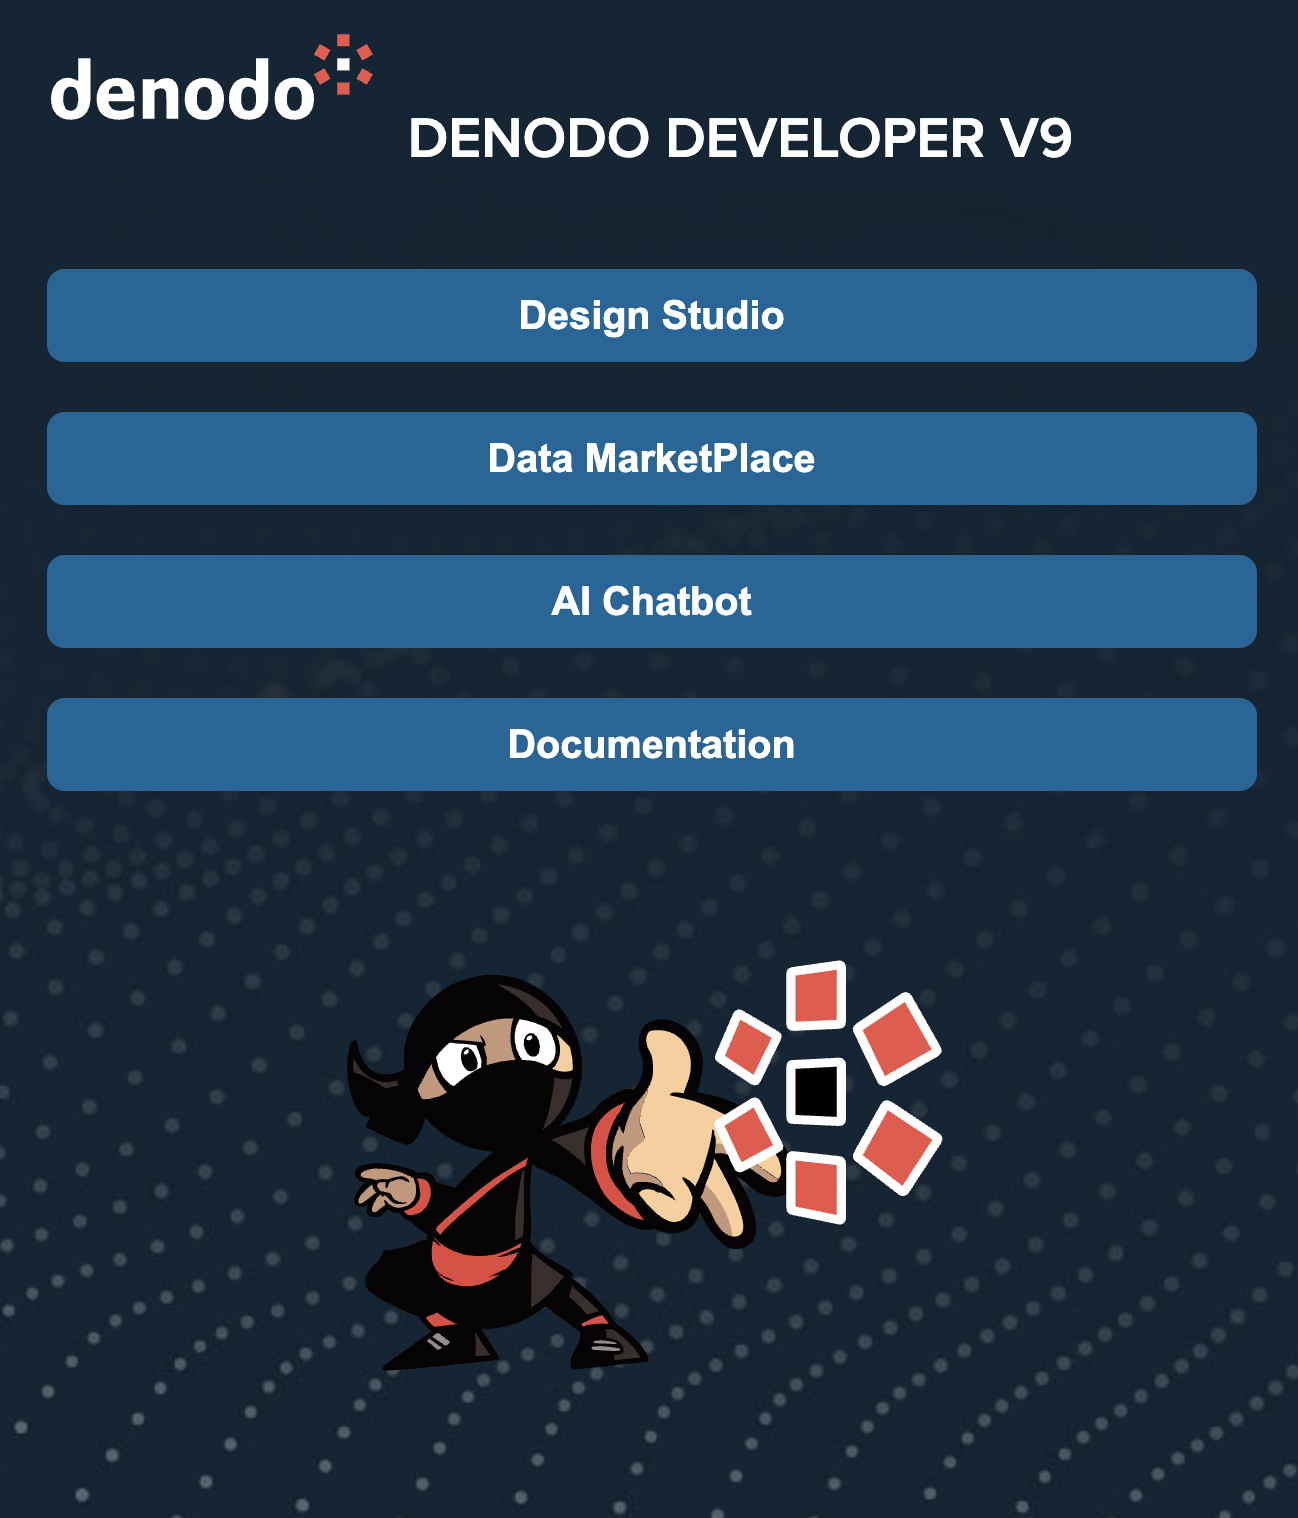
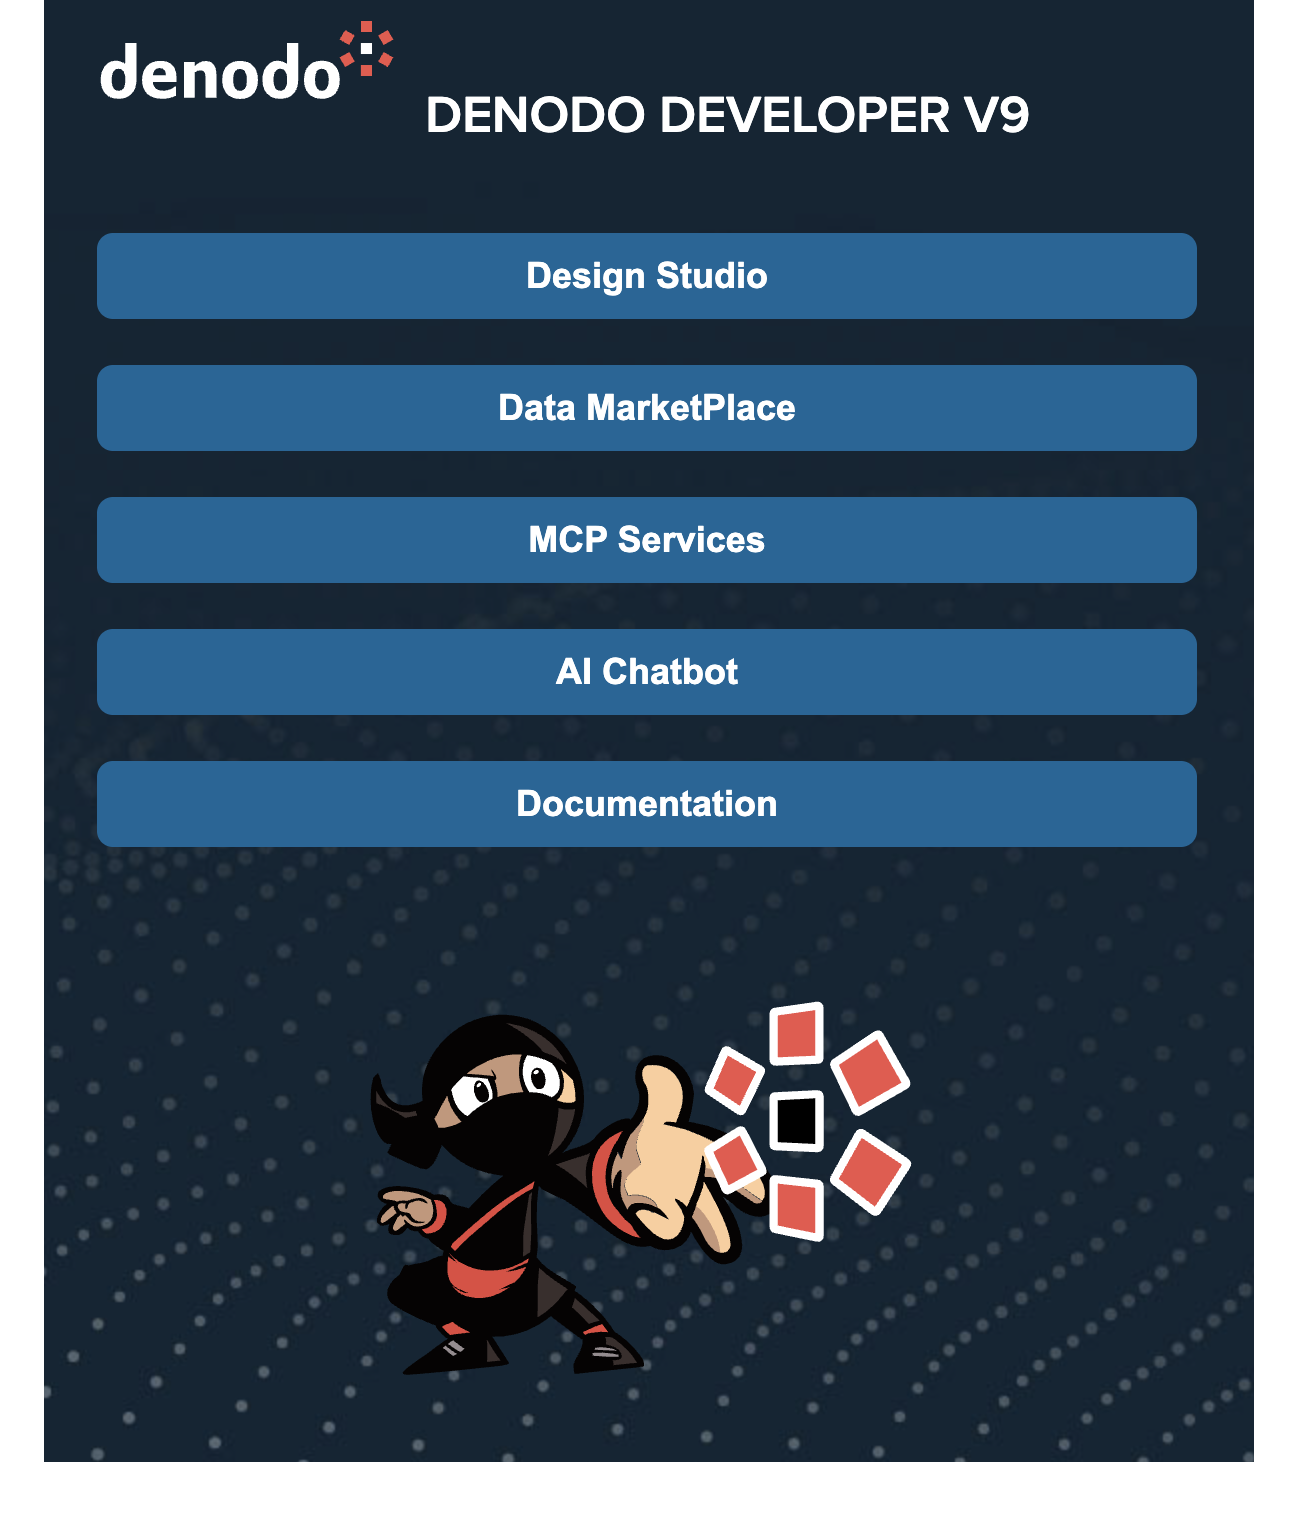
samples

diff --git a/README.md b/README.md
@@ -1,38 +1,54 @@
 # denodo-oneclick
-Denodo developer one click install for Docker on Windows and Linux.
+Denodo Platform Developer Edition One-Click install for Docker on Windows and Linux.
 
-This package automatically deploys the following Denodo components:
+This package provide a fully automated deployment and install of the following Denodo Platform components:
 * Denodo Virtual Data Port
 * Design Studio
 * Data Marketplace
 * AI-SDK API and Chatbot
 * AI-SDK MCP Server
 * Denodo VDP MCP Server
+* Sample Logical Models
+  * Retail Bank  
+  * Medical Pharma & X-Ray
 * Other components:
   * PostgreSQL DB
   * Nginx HTTP Server
   
-Following a successful deployment you have access to a landing webpage with link to all the install components.
+Following a successful deployment you will get access to a landing webpage with link to all the install components.
+
 
 ![landing page](./landing.png)
 
 
 
-## Usage
+## Getting Started
 
-To install Denodo Developper you just need to follow those steaps
-* Regirster with Denodo Support
+### Preparation
+
+To install Denodo Platform Developper Edition you just need to follow those steaps
+* Regirster with [Denodo](https://auth.denodo.com/user-management/denodo-platform-developer-tier-previous-register)
 * Obtain your Denodo Support Client ID
 * Obtain your Denodo Support Secret
-* Download your Denodo License
-
-You can then run the following command to install your own local container image of Denodo Developper by running the following command (change the parameters first)
+* Download your Free Denodo Developper License
 
 > **_NOTE:_**  You must have Docker priorly installed on your machine
 
-> **_NOTE:_** Give Docker at least 6 GB of memory (8 GB recommended). VDP Server, Design Studio, Data Marketplace, and the MCP server all run as separate concurrent Java processes, and running them under too little memory causes them to crash shortly after starting (often showing as a 502 from nginx) rather than a clean out-of-memory error. This is especially easy to hit with [Colima](https://github.com/abiosoft/colima), whose default profile only allocates 2 GB - increase it with `colima stop && colima start --memory 8 --cpu 4`, or by setting `memory: 8` in `~/.colima/default/colima.yaml`. On Docker Desktop, adjust it under Settings → Resources → Memory.
+> **_NOTE:_** Give **Docker** at least **6 GB** of memory (8 GB recommended). 
+> VDP Server, Design Studio, Data Marketplace, AISDK Sample Chatbot and the MCP servers all run as separate concurrent Java processes. Running them under too little memory would causes them to crash shortly after starting (often showing as a 502 from nginx) rather than a clean out-of-memory error. 
+
+> This is especially easy to hit if you are using [**Colima**](https://github.com/abiosoft/colima), lightweight container runtime tool for macOS and Linux, whose default profile only allocates only 2 GB.
+
+* Increase it with `colima stop && colima start --memory 8 --cpu 4`, or by setting `memory: 8` in `~/.colima/default/colima.yaml`. 
+* On Docker Desktop, adjust it under Settings → Resources → Memory.
+
+ You arenow nearly done have can then run the following command to install your own local container image of Denodo Developper by running the following command (change the parameters first)
+
+
 
 ### Linux / MacOS
+
+> **_NOTE:_** Before to run the script rebiew the additional optional parameters that are avaialbale. You might want to provide your **OPENAI_API_KEY** to enable the AISDK. The script will run for about 30 minutes depending on your hardware and internet speed. 
 
 ```zsh
 curl -fsSL https://raw.githubusercontent.com/vfagesgo/denodo-oneclick/main/install.sh | bash  -s -- \
@@ -52,17 +68,21 @@ If you already have this repository checked out locally, you can run the script 
 
 ### Windows
 
-On Windows, use `install.ps1` from a PowerShell prompt. Docker Desktop's Linux container backend builds/runs the exact same image as the bash version.
+On Windows, use `install.ps1` from a PowerShell prompt. Docker Desktop's Linux container backend builds/runs the exact same image as the Linux / MacOS version.
 
-> **_NOTE:_** Start Docker Desktop before running the script — it calls `docker` directly and fails immediately if the Docker engine isn't running.
+> **_NOTE:_** Start **Docker** Desktop before running the script as it calls `docker` directly and would fail immediately if the Docker engine isn't running.
 
-PowerShell doesn't support piping a script straight into execution the way `curl | bash` does, so download it first, then run it. PowerShell also blocks running downloaded `.ps1` scripts by default, so bypass that for the current session with `Set-ExecutionPolicy`:
+> **_NOTE:_** **PowerShell** doesn't support piping a script straight into execution the way `curl | bash` does, so download it first, then run it. PowerShell also blocks running downloaded `.ps1` scripts by default, so bypass that for the current session with `Set-ExecutionPolicy`:
 
 ```powershell
 Set-ExecutionPolicy -Scope Process -ExecutionPolicy Bypass
+```
 
+```powershell
 iwr -useb https://raw.githubusercontent.com/vfagesgo/denodo-oneclick/main/install.ps1 -OutFile install.ps1
+```
 
+```powershell
 .\install.ps1 -DENODO_SUPPORT_CI <Support_CI> -DENODO_SUPPORT_SECRET <Support_Secret> -DENODO_LIC <Path to your Denodo license file>
 ```
 
@@ -70,9 +90,11 @@ iwr -useb https://raw.githubusercontent.com/vfagesgo/denodo-oneclick/main/instal
 
 If you already have this repository checked out locally, run `.\install.ps1 ...` directly instead (still preceded by the `Set-ExecutionPolicy` line above if needed).
 
-### Next Steps 
+### Final Step 
 
-The install runs in the background; the script automatically follows its logs in your terminal until you Ctrl-C (the container keeps running either way). Once it completes, Denodo is available at http://localhost. To reattach to the logs later:
+The install runs in the background. The script automatically follows its logs in your terminal until you Ctrl-C (the container keeps running either way).
+
+Once it completes, you will wait for about 30 min for the initial install, Denodo is available at http://localhost.
 
 ## Options
 
@@ -89,10 +111,17 @@ Defaults come from `denodo_config.env`; pass any of these to override them:
 - `--DENODO_VDP_PWD <value>` (default: `admin`)
 
 ### Optional (CLI only)
-- `--CLOUDFLARE_TUNNEL_KEY <value>` — optional Cloudflare Tunnel token, if you want to expose the instance publicly. Each Cloudflare Tunnel has its own unique token; reusing one tunnel's token elsewhere just adds another connector to that same tunnel rather than creating a new one.
+- `--CLOUDFLARE_TUNNEL_KEY <value>` — optional Cloudflare Tunnel token, if you want to expose the instance publicly. Each Cloudflare Tunnel has its own unique token.
 - `--OPENAI_API_KEY <value>` — optional OpenAI API key, used to pre-fill the AI SDK's and sample chatbot's config files (`sdk_config.env`, `chatbot_config.env`).
-- `--mode <docker|local>` — default `docker`; `local` is not implemented yet
-- `--reset` — remove any existing container and its volumes first, so the install starts truly from scratch instead of resuming. Use this when you need to change a value like `--DENODO_UPDATE`, `--CLOUDFLARE_TUNNEL_KEY`, or `--OPENAI_API_KEY`, since these are baked into the container when it's first created and aren't picked up again by a plain restart — only `--reset` (or `--upgrade`, for `--DENODO_UPDATE`/`--CLOUDFLARE_TUNNEL_KEY`/`--OPENAI_API_KEY`) applies a new value.
+- `--mode <docker|local>` — default `docker`; `local` is not implemented yet. The objective in the future would be to also support local automatic installation in linux environment
+- Script bahavior:
+  - `--install` - **(default)** - full install. Used the very first time, and whenever entrypoint.sh's marker/OS sanity check says a full install is still needed.
+  - `--reset` - Remove any existing container and its volumes first, so the install starts truly from scratch instead of resuming. 
+  - `--upgrade` - If you have already build an image, check whether DENODO_UPDATE changed and, if so, pull the Denodo platform update installer to apply it and always re-fetches the AI SDK and MCP server.
+  - `--refresh` - Pull a fresh copy of this repository (nginxvconfig, service unit files without touching the installed Denodo software: **just reapply config and restart services.**
+  - `--services-only` On install already completed, just (re)start everything. Set automatically by entrypoint.sh on every later container start.
+
+Use `--refresh` /`--upgrade`  when you need to change a value like `--DENODO_UPDATE`, `--CLOUDFLARE_TUNNEL_KEY`, or `--OPENAI_API_KEY`, since these are baked into the container when it's first created and aren't picked up again by a plain restart — only `--reset` (or `--upgrade`, for `--DENODO_UPDATE`/`--CLOUDFLARE_TUNNEL_KEY`/`--OPENAI_API_KEY`) applies a new value.
 
 ## Retrying a failed or interrupted install
 
@@ -102,7 +131,7 @@ If you do want a totally clean install, add `--reset` to remove the existing con
 
 ## Refreshing or upgrading an already-installed container
 
-These act on the existing `denodo-oneclick` container in place — they don't rebuild the image or touch your data volume. Under the hood they pull the latest `denodo-oneclick` repo into the container and re-run part of its install script (`docker exec`, not `docker run`), so the container keeps running throughout except for the services it restarts.
+These act on the existing `denodo-oneclick` container in place, it does not rebuild the image or touch your data volume. Under the hood it pulls the latest `denodo-oneclick` repo into the container and re-run part of its install script (`docker exec`, not `docker run`), so the container keeps running throughout except for the services it restarts.
 
 ```zsh
 ./install.sh --refresh
@@ -127,7 +156,7 @@ docker start denodo-oneclick
 
 `docker start` does **not** redo the install. On boot, the container checks for a marker left behind by the last successful install/upgrade; if it's there (and the underlying OS packages still look intact), it skips straight to just (re)starting PostgreSQL, nginx, the Denodo services, and the Cloudflare tunnel (if configured) — this is usually done within well under a minute. A full reinstall only happens automatically if that marker is missing, e.g. the very first start, or after `--reset`.
 
-To watch it come back up:
+To check it comes back up:
 
 ```zsh
 docker logs -f denodo-oneclick
@@ -144,4 +173,4 @@ Install progress and data live in a single named Docker volume, so they survive 
 
 ## Current status
 
-The Docker install mode is fully working: it builds a Debian-based image, installs PostgreSQL, Java, the Denodo platform, the Denodo AI SDK, the Denodo MCP server, and nginx, then starts the Denodo services (and, if `--CLOUDFLARE_TUNNEL_KEY` is set, a Cloudflare Tunnel) and serves the application on port 80. Local (non-Docker) install mode is not implemented yet.
+The Docker install mode is fully working: it builds a Debian-based image, installs PostgreSQL, Java, the Denodo platform, the Denodo AI SDK, the Denodo MCP server, Sample Data Model and nginx, then starts the Denodo services. **Local (non-Docker) install mode is not implemented yet.**
